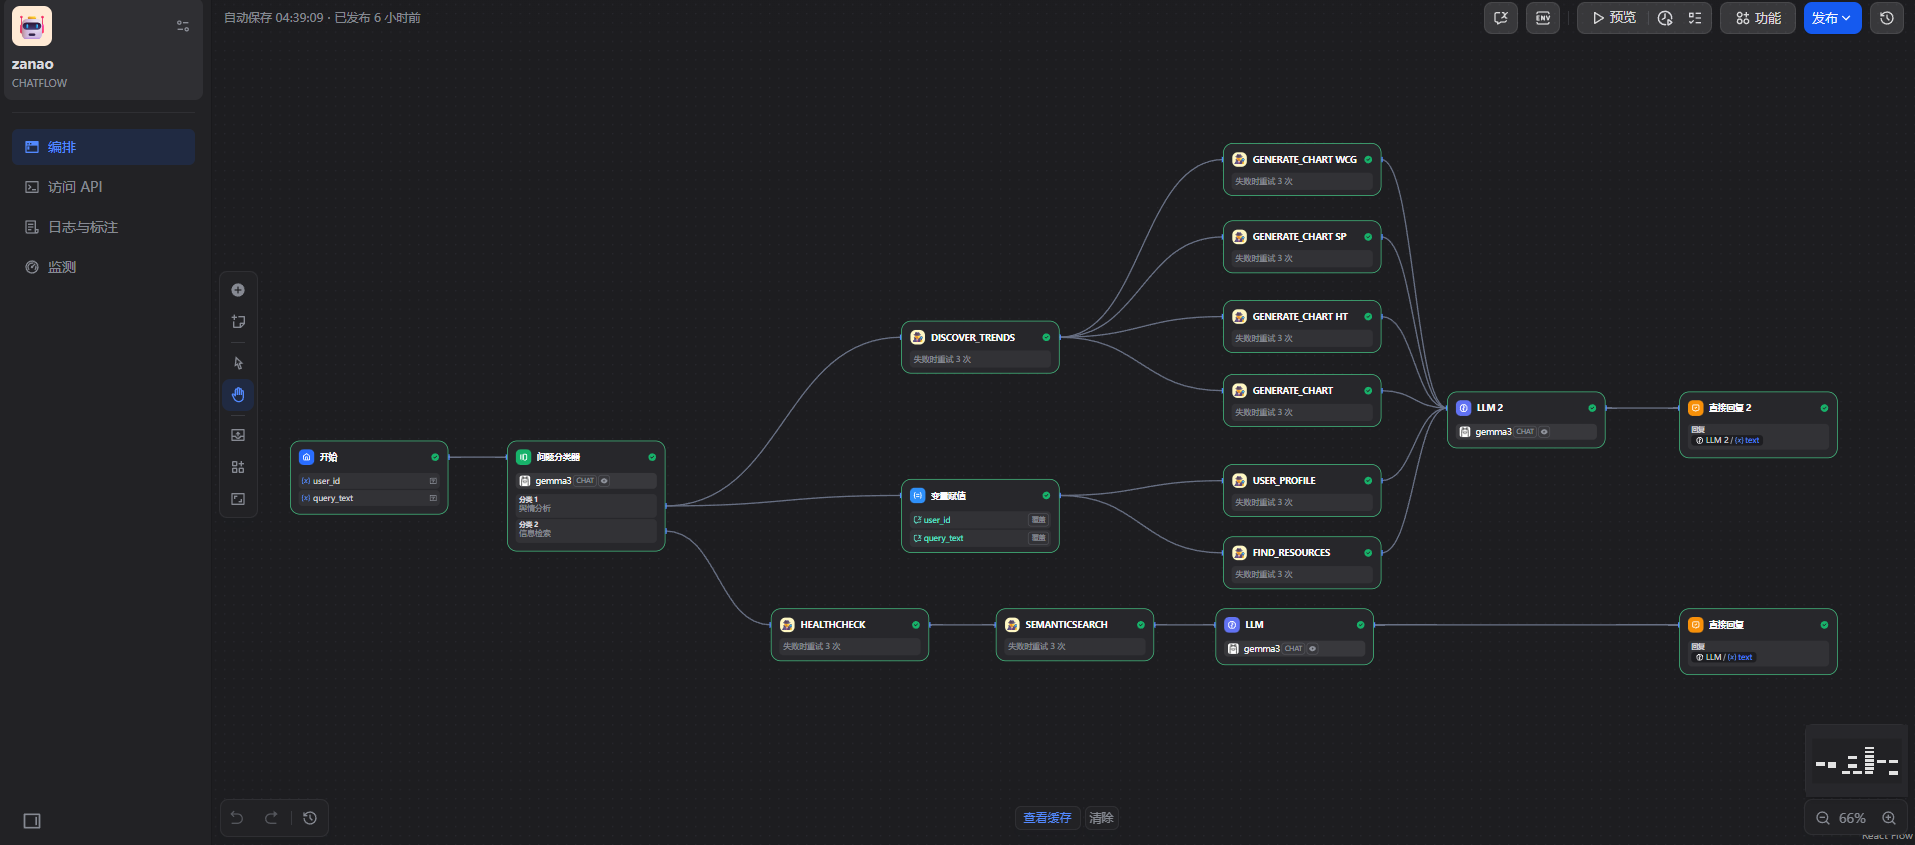
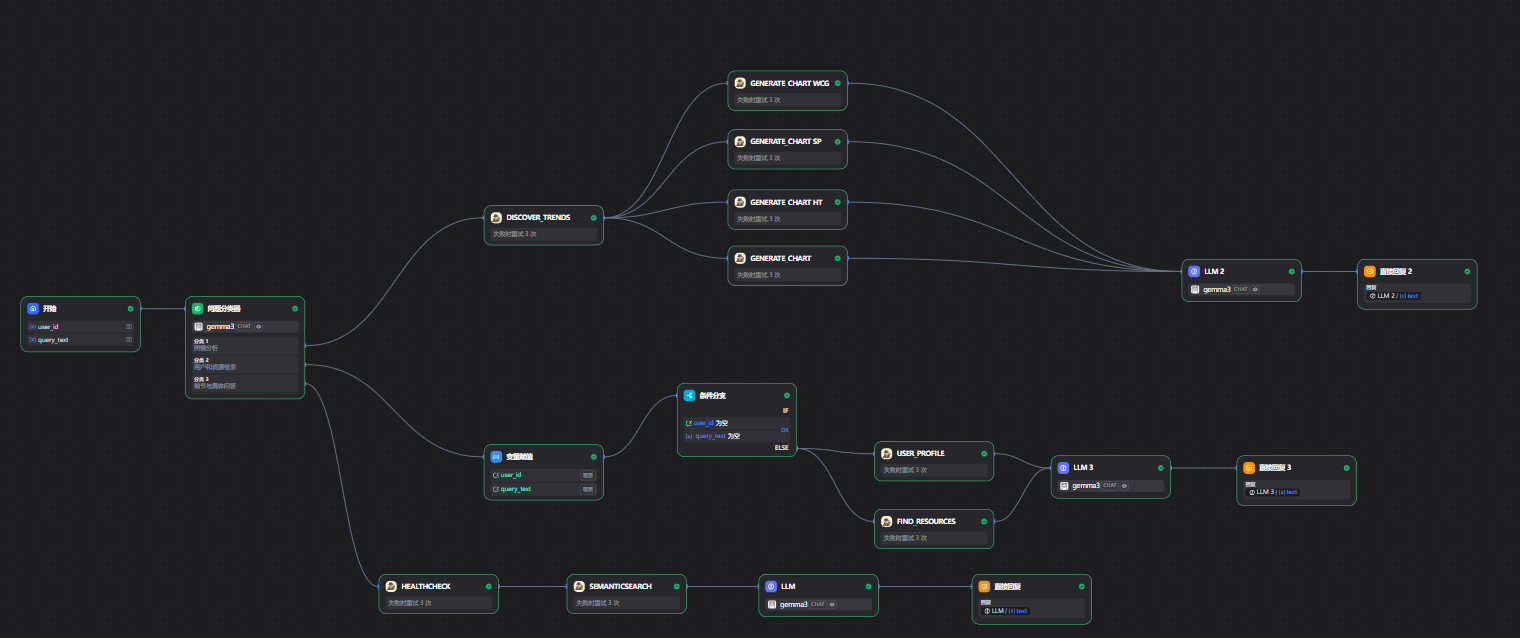
modify ReadME

diff --git a/README.md b/README.md
@@ -277,7 +277,7 @@ ollama serve
 
 ## 交互实现
 
-### 分支一：信息检索
+### 分支一：细节问答
 
 案例输出结果如下图：
     <div style="text-align: center;">
@@ -290,6 +290,14 @@ ollama serve
     <div style="text-align: center;">
 <img src="/doc_image/分支二.png" alt="描述文字" width="780" height="530">
 </div>
+
+### 分支三：资源检索
+
+案例结果部分输出如下：
+    <div style="text-align: center;">
+<img src="/doc_image/资源检索.png" alt="描述文字" width="780" height="490">
+</div>
+
 
 ## 统计图呈现
 
@@ -311,5 +319,5 @@ ollama serve
 - [ ] 优化爬虫设计，提升爬虫的执行效率和稳定性，提高爬虫安全性和单次`User Token`使用时间，提升爬虫程序的智能型和自主性
 - [ ] 优化数据库设计，针对不同数据库的不同表目，进行整合和调整，提高信息密度和丰富度；同时增加多模态数据库，存储如图片等非文本信息
 - [ ] 优化代码流程设计，提供更加高效稳定的并行化处理方案，优化文件结构，优化API接口设计，提高处理效率，提供稳定的多平台调用方式
-- [ ] 着手UI设计，开始建立前端页面，设计更加现代、好用、一体化的UI界面，提供更好的交互体验
+- [x] 着手UI设计，开始建立前端页面，设计更加现代、好用、一体化的UI界面，提供更好的交互体验：现UI已上传至相应的[Github链接](https://github.com/Joker-of-Gotham/Zanao-LLM-Analyzer-frontend)
 - [ ] 优化工作流设计，提升硬件水平，提高模型能力，采用更先进的文本处理方案，引入多模态数据，优化工作流节点和字段设计，提高单次对话的处理效率和多轮对话连贯性，加强用户体验
